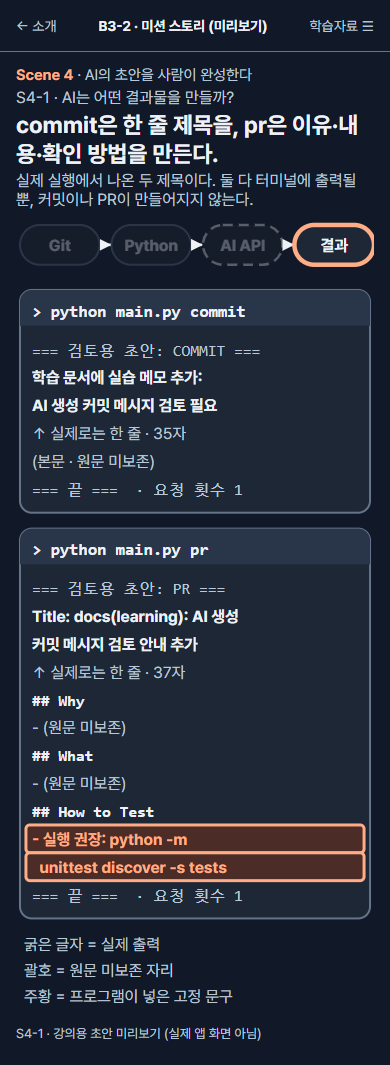
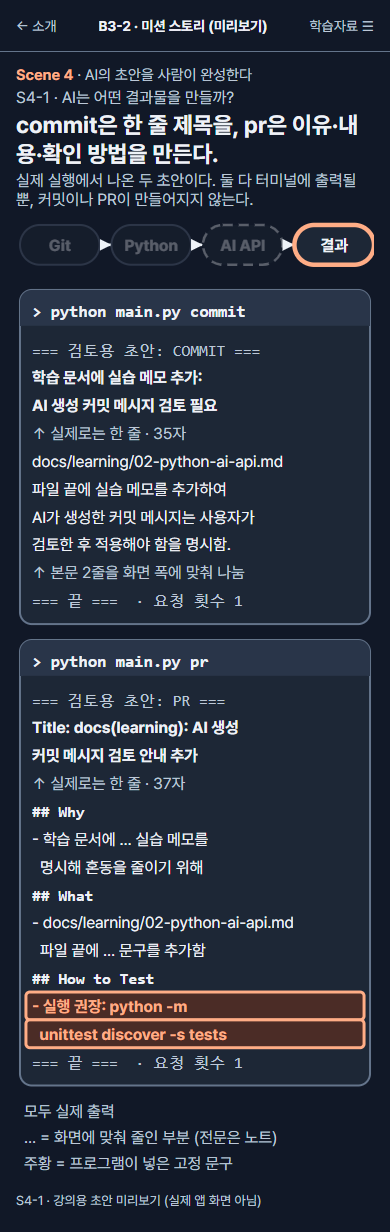
content(b32): replace S4-1 placeholders with real 2026-10-20 output
GPT 독립 검토 반영. S4-1의 "원문 미보존" 자리를 사용자가 2026-10-20
실제 코디세이 API로 실행한 commit·PR 출력 원문으로 교체했다.
[실제 실행 · 2026-10-20 · 사용자 ChatGPT 대화 공유]

- evidence/real-output-2026-10-20.txt: 출력 원문 보존
- F8 PC·모바일: 실제 출력 반영, 긴 PR 불릿은 원문 조각을 …로 연결
- storyboard: S4-1 대체텍스트·근거·강사 스크립트·접힘 설명, 전문 블록
- review.md: 원문 미보존·재실행 필요 기록 정정, 메모 위치 차이 기록
- preview.cjs: F8 글자를 원문과 조각 단위로 대조

4 Scene·8화면 유지. 이번 작업에서도 AI API는 호출하지 않았다.

Changed region(s): [[0.0308, 0.0, 0.9846, 0.9915], [0.8, 0.0, 0.9538, 0.031]]

diff --git a/content/mission-stories/main-m06/_tools/build_figures.py b/content/mission-stories/main-m06/_tools/build_figures.py
@@ -765,16 +765,21 @@ def f7(mobile):
 
 
 # ---------------------------------------------------------------- F8 commit / pr 결과
-F8_LABEL = ("같은 변경으로 실행한 두 명령의 출력(2026-10-20 사용자 실제 실행). 왼쪽 python main.py commit: '=== 검토용 초안: COMMIT ===' 다음에 "
-            "실제 제목 '학습 문서에 실습 메모 추가: AI 생성 커밋 메시지 검토 필요'(35자), 본문은 실습 메모 추가를 설명했으나 원문이 보존되지 않아 비워 둠, "
-            "끝 표시와 stderr의 'AI API 요청 횟수: 1'. 오른쪽 python main.py pr: 실제 제목 'Title: docs(learning): AI 생성 커밋 메시지 검토 안내 추가'(37자), "
-            "## Why와 ## What 불릿은 원문이 보존되지 않아 비워 둠, ## How to Test는 프로그램이 넣은 고정 문구 '- 실행 권장: python -m unittest discover -s tests'(강조), "
-            "끝 표시와 요청 횟수 1. 아래 범례: 굵은 글자 = 실제 출력, 괄호 = 원문 미보존 자리, 주황 = 프로그램이 넣은 고정 문구.")
+F8_LABEL = ("같은 변경으로 실행한 두 명령의 실제 출력(2026-10-20 사용자 실행, ChatGPT 대화 공유 원문). 왼쪽 python main.py commit: "
+            "'=== 검토용 초안: COMMIT ===' 다음에 제목 '학습 문서에 실습 메모 추가: AI 생성 커밋 메시지 검토 필요'(35자), 빈 줄, 본문 두 줄 "
+            "'docs/learning/02-python-ai-api.md 파일 끝에 실습 메모를 추가하여 / AI가 생성한 커밋 메시지는 사용자가 검토한 후 적용해야 함을 명시함.', "
+            "끝 표시와 stderr의 'AI API 요청 횟수: 1'. 오른쪽 python main.py pr: 'Title: docs(learning): AI 생성 커밋 메시지 검토 안내 추가'(37자), "
+            "## Why '- 학습 문서에 … 실습 메모를 명시해 혼동을 줄이기 위해', ## What '- docs/learning/02-python-ai-api.md 파일 끝에 … 추가함'(긴 줄은 …로 줄임), "
+            "## How to Test는 프로그램이 넣은 고정 문구 '- 실행 권장: python -m unittest discover -s tests'(강조), 끝 표시와 요청 횟수 1. "
+            "아래 범례: 굵은 글자 = 실제 출력의 제목, … = 화면에 맞춰 줄인 부분(전문은 발표자 노트), 주황 = 프로그램이 넣은 고정 문구.")
+# evidence/real-output-2026-10-20.txt 원문. 화면 폭을 넘는 PR 불릿만 원문 순서대로 잘라 '…'로 잇는다(preview.cjs가 원문과 대조)
 F8_COMMIT = [
     ("=== 검토용 초안: COMMIT ===", "muted mono"),
     ("학습 문서에 실습 메모 추가: AI 생성 커밋 메시지 검토 필요", "ink b"),
     ("", ""),
-    ("(본문: 실습 메모 추가를 설명 · 원문 미보존)", "muted"),
+    ("docs/learning/02-python-ai-api.md 파일 끝에 실습 메모를 추가하여", "ink"),
+    ("AI가 생성한 커밋 메시지는 사용자가 검토한 후 적용해야 함을 명시함.", "ink"),
+    ("", ""),
     ("=== 끝: 내용을 확인한 뒤 사용하세요 ===", "muted mono"),
     ("AI API 요청 횟수: 1   ← stderr", "muted"),
 ]
@@ -782,9 +787,9 @@ F8_PR = [
     ("=== 검토용 초안: PR ===", "muted mono"),
     ("Title: docs(learning): AI 생성 커밋 메시지 검토 안내 추가", "ink b"),
     ("## Why", "ink mono b"),
-    ("- (변경 목적 · 원문 미보존)", "muted"),
+    ("- 학습 문서에 … 실습 메모를 명시해 혼동을 줄이기 위해", "ink"),
     ("## What", "ink mono b"),
-    ("- (바뀐 파일과 문구 · 원문 미보존)", "muted"),
+    ("- docs/learning/02-python-ai-api.md 파일 끝에 … 추가함", "ink"),
     ("## How to Test", "ink mono b"),
     ("- 실행 권장: python -m unittest discover -s tests", "acc"),
     ("=== 끝: 내용을 확인한 뒤 사용하세요 ===", "muted mono"),
@@ -809,15 +814,18 @@ def f8(mobile):
                     s.text(x + 16, 104 + i * 32 - (2 if c == "acc" else 0), t, 19, c)
             s.rect(x, 424, w, 44, "box", 10)
             s.text(x + 16, 453, note, 19, "ink")
-        s.text(8, 506, "굵은 글자 = 실제 출력 · 괄호 = 원문이 보존되지 않아 비운 자리 · 주황 = 프로그램이 넣은 고정 문구", 19, "muted")
+        s.text(8, 506, "모두 실제 출력 · … = 화면에 맞춰 줄인 부분 (전문은 발표자 노트) · 주황 = 프로그램이 넣은 고정 문구", 19, "muted")
     else:
         s = Svg(360, 940, ("main",), F8_LABEL, title)
         com = [("=== 검토용 초안: COMMIT ===", "muted mono"), ("학습 문서에 실습 메모 추가:", "ink b"),
                ("AI 생성 커밋 메시지 검토 필요", "ink b"), ("↑ 실제로는 한 줄 · 35자", "muted"),
-               ("(본문 · 원문 미보존)", "muted"), ("=== 끝 ===  · 요청 횟수 1", "muted mono")]
+               ("docs/learning/02-python-ai-api.md", "ink"), ("파일 끝에 실습 메모를 추가하여", "ink"),
+               ("AI가 생성한 커밋 메시지는 사용자가", "ink"), ("검토한 후 적용해야 함을 명시함.", "ink"),
+               ("↑ 본문 2줄을 화면 폭에 맞춰 나눔", "muted"), ("=== 끝 ===  · 요청 횟수 1", "muted mono")]
         pr = [("=== 검토용 초안: PR ===", "muted mono"), ("Title: docs(learning): AI 생성", "ink b"),
               ("커밋 메시지 검토 안내 추가", "ink b"), ("↑ 실제로는 한 줄 · 37자", "muted"),
-              ("## Why", "ink mono b"), ("- (원문 미보존)", "muted"), ("## What", "ink mono b"), ("- (원문 미보존)", "muted"),
+              ("## Why", "ink mono b"), ("- 학습 문서에 … 실습 메모를", "ink"), ("  명시해 혼동을 줄이기 위해", "ink"),
+              ("## What", "ink mono b"), ("- docs/learning/02-python-ai-api.md", "ink"), ("  파일 끝에 … 문구를 추가함", "ink"),
               ("## How to Test", "ink mono b"), ("- 실행 권장: python -m", "acc"), ("  unittest discover -s tests", "acc"),
               ("=== 끝 ===  · 요청 횟수 1", "muted mono")]
         y = 8
@@ -831,7 +839,7 @@ def f8(mobile):
                     s.rect(10, y + 46 + i * 28, 340, 28, "box-acc", 4)
                 s.text(16, y + 66 + i * 28, t, 16, c)
             y += h + 16
-        s.lines(8, y + 16, ["굵은 글자 = 실제 출력", "괄호 = 원문 미보존 자리", "주황 = 프로그램이 넣은 고정 문구"], 16, 26, "muted")
+        s.lines(8, y + 16, ["모두 실제 출력", "… = 화면에 맞춰 줄인 부분 (전문은 노트)", "주황 = 프로그램이 넣은 고정 문구"], 16, 26, "muted")
         s.h = y + 86
     return s
 

diff --git a/content/mission-stories/main-m06/review.md b/content/mission-stories/main-m06/review.md
@@ -2,7 +2,7 @@
 
 > 대상: [storyboard-v0.1.md](storyboard-v0.1.md) · [assets/](assets/) · [assets/evidence/](assets/evidence/) · [preview/](preview/) · [_tools/](_tools/)
 > 작업 브랜치 `content/b3-2-ai-git-story` (기준 `origin/main` `08d1e1f`) · 근거 소스 [Codyssey_B3-2](https://github.com/hyun02063185-AX-beginner/Codyssey_B3-2) `be21c49`
-> 상태: **Claude 자체 QA 완료 · GPT 독립 검토 전 · Owner 승인 전 · 웹 통합 전 · 동료평가 전 초안**
+> 상태: **GPT 독립 검토 반영(S4-1 실제 출력) · Owner 승인 전 · 웹 통합 전 · 동료평가 전 초안**
 > 이 문서가 B3-2 Story의 QA·handover 기록이다. 별도 보고서를 만들지 않는다(학습 운영 정책 §7). 동료평가 피드백도 새 스토리가 아니라 이 초안의 개정으로 반영한다.
 
 ## 1. 다시 실행하는 법
@@ -24,7 +24,7 @@ node preview.cjs --check-only                    # 검사만
 | --- | --- | --- |
 | 강의 원고 | 인트로 + 4 Scene × 2 = 8화면. 화면마다 제목·학습 질문·핵심 메시지·화면 설명·시각자료·대체텍스트·근거·강사 스크립트·학습자 접힘 설명·이해 확인·연결. 발표자 노트(시연 ①~⑥), 강의 시간표, 부록 A(공식·구현·표현), 부록 B(화면별 개념 수) | 완료 |
 | 그림 | F0 위치 띠(`s1`~`s4`) · F1 전체 구조도(`all`·`s1`~`s4`·`return`) · F2 직접 작성 vs AI 초안 · F3 git status/diff · F4 argparse→subprocess→운영체제→Git · F5 stdout/stderr/returncode 분기 · F6 보낼 문맥과 안전 검사 · F7 API 요청·응답 · F8 commit/PR 출력 — 각 PC(폭 1200)·모바일(폭 360) SVG 18개 | 완료 |
-| 실행 근거 | `assets/evidence/` 5개: git 출력, AI에게 보내는 문맥 원문(806자), 요청 본문 구조(키 없음), subprocess 결과(0/128), 검증기 실행 결과(교육용 입력) | 완료 |
+| 실행 근거 | `assets/evidence/` 6개: git 출력, AI에게 보내는 문맥 원문(806자), 요청 본문 구조(키 없음), subprocess 결과(0/128), 검증기 실행 결과(교육용 입력), **실제 commit·PR 출력 원문**(`real-output-2026-10-20.txt`) | 완료 |
 | 미리보기 | `preview/` PC 1280×720 Dark: 인트로+8 · Light: S1-2·S3-2·S4-2 · 모바일 390×844: 인트로+8 | 완료 |
 | 도구 | `capture_demo.py`(근거), `build_figures.py`(그림), `preview.cjs`(검사·미리보기), `screens.json`(화면 문구 사본) | 완료 |
 | 개념지도 | B3-2 개념지도는 이번 범위가 아니다. 스토리 → 지도 연결은 **미구현** | 범위 밖 |
@@ -56,13 +56,15 @@ node preview.cjs --check-only                    # 검사만
 | 문맥 6칸 순서와 806자 | F6, F7 | `evidence/demo-context.txt`, `demo-request.json`의 `context_chars` | PASS |
 | returncode 0 / 128, stderr `fatal: not a git repository …` | F5 | `evidence/subprocess-results.txt` | PASS |
 | URL `https://copa.codyssey.kr/v1/chat/completions`, 모델 `gpt-5-mini` | F7 | `[실제 실행]` B3-2 README·QA | PASS(모델) |
-| commit 제목 35자, PR 제목 37자 | F2, F8 | `[실제 실행]` B3-2 `reports/QA.md`. 글자 수는 다시 셌다 | — (원고·그림 일치 육안 확인) |
+| commit·PR 출력 전체(제목 35자·37자, commit 본문 2줄, PR Why·What) | F2, F8 | `[실제 실행 · 2026-10-20 · 사용자 ChatGPT 대화 공유]` `evidence/real-output-2026-10-20.txt`. 제목은 B3-2 `reports/QA.md`와도 같다. 글자 수는 다시 셌다 | PASS(F8 PC·모바일의 출력 글자를 `…` 조각 단위로 원문과 대조, "미보존" 표시 0건) |
 | How to Test `- 실행 권장: python -m unittest discover -s tests` | F8 | `validators.py`, `evidence/validator-demo.txt` | PASS |
 | API 키 | 모든 그림·근거 | 표시하지 않음(`••••`). `preview.cjs`가 `sk-`·`ghp_`·`github_pat_`·`AKIA`·`Bearer <값>` 패턴 검사 | PASS(0건) |
 
-**재현의 범위.** 2026-10-20 실제 실행의 터미널 전문은 남아 있지 않다. 그때 AI가 설명한 변경(`docs/learning/02-python-ai-api.md`에 실습 메모 한 줄 추가, `be21c49`에 커밋됨)을 `7b2c6af` 위에 미커밋 변경으로 다시 만들고, B3-2의 `collect_changes()`·`prepare_context()`를 그대로 실행했다. 실제 실행 때 브랜치가 무엇이었는지, 그 변경을 `git add`했는지는 기록이 없다. 재현에서는 `main`·미스테이징으로 두었고 그림에 "재현"을 표시했다.
+**재현의 범위.** 2026-10-20 실제 실행에서 남은 것은 `commit`·`pr`의 출력(AI 초안)뿐이고, 그때의 `git status`·`git diff` 화면은 없다. 그때 AI가 설명한 변경(`docs/learning/02-python-ai-api.md`에 실습 메모 한 줄 추가, `be21c49`에 커밋됨)을 `7b2c6af` 위에 미커밋 변경으로 다시 만들고, B3-2의 `collect_changes()`·`prepare_context()`를 그대로 실행했다. 실제 실행 때 브랜치가 무엇이었는지, 그 변경을 `git add`했는지는 기록이 없다. 재현에서는 `main`·미스테이징으로 두었고 그림에 "재현"을 표시했다.
 
-**만들어 넣지 않은 것.** 실제 commit 본문과 PR의 Why·What 문장은 기록이 없어 그림에 괄호 자리("원문 미보존")로 두었다. 강의에서는 시연 ⑤로 새로 받아 보여 준다.
+**실제 출력의 출처.** S4-1의 commit·PR 출력은 2026-10-20 ChatGPT 대화에 사용자가 직접 올린 터미널 출력이다. GPT가 그 대화에서 확인했고 Owner가 2026-11-04 전달했다(`[실제 실행 · 2026-10-20 · 사용자 ChatGPT 대화 공유]`). 원문은 `evidence/real-output-2026-10-20.txt`에 고치지 않고 보존했다. 화면 F8은 PR의 Why·What만 원문 순서대로 잘라 `…`로 이었고, 전문은 스토리보드 S4-1 "실제 출력 전문"(발표자 노트·접힘)에 있다. **이 스토리 제작 과정에서 AI API는 한 번도 호출하지 않았다.**
+
+**원문과 커밋 기록의 차이(확인 대기).** 두 초안 모두 메모를 "파일 끝에" 추가했다고 쓴다. 커밋된 `be21c49`의 `docs/learning/02-python-ai-api.md`에서 메모는 45줄 중 29번째 줄(`## 실행 결과` 앞)에 있고, F3 재현도 이 위치를 따랐다. 실행 시각(`7b2c6af` 17:00 이후, `be21c49` 17:31 이전)의 메모 위치는 기록이 없다. 따라서 (가) AI가 위치를 잘못 설명했거나 (나) 실행 당시에는 파일 끝에 있었고 커밋 전에 옮겨졌을 수 있다. 원문은 그대로 두었고, 어느 쪽인지 정해지기 전에는 강의에서 언급하지 않도록 S4-1 강사 스크립트 7에 적었다.
 
 ## 4. 공식 요구사항과 실제 구현의 차이
 
@@ -103,8 +105,9 @@ node preview.cjs --check-only                    # 검사만
 
 | 항목 | 내용 |
 | --- | --- |
-| 실제 API 시연(⑤) | 이번 작업에서 AI API를 호출하지 않았다(키 없음·비용). 실제 응답 형식은 2026-10-20 사용자 실행 기록에 근거한다 |
-| commit 본문·PR Why/What 원문 | 기록이 없어 그림에 비워 두었다. 동료평가 전 Owner가 ⑤를 실행해 원문을 남기면 S4-1을 실제 문장으로 바꿀 수 있다(요청 2회) |
+| 실제 API 시연(⑤) | 이번 작업에서 AI API를 호출하지 않았다(키 없음·비용). S4-1은 2026-10-20 사용자 실제 실행의 출력 원문을 쓰므로 다시 실행할 필요는 없다. ⑤는 강의 중 선택 시연이다 |
+| 메모 위치 "파일 끝에" | 실제 출력과 커밋 기록(29/45번째 줄)이 다르다. 실행 당시 위치는 기록이 없다(§3.2) |
+| 출력 원문의 전달 경로 | 원문은 GPT가 확인한 ChatGPT 대화에서 Owner를 거쳐 받았다. Claude는 그 대화 자체를 열어 보지 않았다 |
 | 실제 실행의 브랜치·스테이징 상태 | 기록 없음. 재현은 `main`·미스테이징 |
 | 코디세이 API 뒤 구조 | 모델 실행 위치·내부 연결은 확인하지 않았다(원고도 단정하지 않음) |
 | 미션 원문 | Notion 원문 재확인 없음. 원천 추출 raw와 B3-2 기록에 근거 |
@@ -119,7 +122,8 @@ node preview.cjs --check-only                    # 검사만
 1. **용어사전 `commit-subcommand` 정의 불일치.** 원천 추출에서 "commit 명령 = commit subcommand, 커밋 제목 생성"은 B3-2 프로그램의 `commit` 입력을 가리키는데, 현재 용어 문서 `content/terms/commit-subcommand.md`는 `git commit` 하위 명령으로 정의한다. 이 원고는 연결하지 않았다(S2-1 연결 아래 메모). canonical 데이터라 수정하지 않았다 — 별도 콘텐츠 개정 여부를 Owner가 결정한다.
 2. **화면에 보이는 질문.** 지시서의 확정 제목 중 다섯 개가 질문형이라, 화면에는 확정 제목을 쓰고 "학습 질문"은 발표자 노트로 두었다(B1-1은 학습 질문을 화면에 표시). 화면 표시 방식을 검토해 주세요.
 3. **위치 띠(F0).** 각 Scene에서 전체 구조도의 해당 부분만 강조한다는 지시에 맞춰 만든 새 요소다. F1에도 같은 `s1`~`s4` 상태를 두었다. 띠를 화면마다 둘지, F1을 "위치 보기"로 펼칠지 결정이 필요하다.
-4. **실제 응답 원문 확보.** S4-1의 괄호 자리를 실제 문장으로 채우려면 Owner의 실제 실행 1회(요청 2회)가 필요하다. 하지 않으면 현재처럼 "원문 미보존"으로 강의한다.
+4. ~~실제 응답 원문 확보~~ → **해결(2026-11-04).** Owner가 전달한 2026-10-20 실제 출력으로 S4-1을 채웠다. 추가 실행은 필요 없다.
+5. **메모 위치 "파일 끝에".** 실행 당시 메모가 파일 끝에 있었는지 Owner가 기억하거나 기록으로 확인해 주세요. AI의 위치 설명이 틀린 것으로 확인되면, 동료평가 개정 때 S4-2 "AI 설명을 diff와 비교하기"의 실제 사례로 쓸 수 있다. 당시 끝에 있었다면 F3 재현의 위치(`@@ -26,6 +26,8 @@`)를 바꿔야 한다.
 
 ## 8. 웹 통합 인수인계 (Codex · Owner 승인 후)
 
@@ -129,3 +133,10 @@ node preview.cjs --check-only                    # 검사만
 - **연결**: 용어 ID는 모두 `data/curated/glossary-master-v0.1.yaml`에 있다. 학습가이드는 이 사이트에 B3-2 가이드가 없어 B3-2 저장소 `be21c49`의 `docs/learning/` 고정 링크다. 외부 링크는 새 창 이동으로만 쓰고 복귀 주소로 쓰지 않는다(UI 기준). 개념지도 연결은 미구현으로 표시한다.
 - **공개 route·mission 등록·`src/` 변경은 이번 단계에서 하지 않았다.** 등록과 경로는 웹 통합 작업에서 UI 기준 v1.2에 따라 정한다.
 - 미리보기 PNG는 검토용이며 웹 렌더러 데이터가 아니다.
+
+## 9. 개정 기록
+
+| 날짜 | 커밋 | 내용 |
+| --- | --- | --- |
+| 2026-11-04 | `75ffbab` | v0.1 초안 |
+| 2026-11-04 | 이 커밋 | GPT 독립 검토 반영: S4-1의 "원문 미보존" 자리를 2026-10-20 실제 출력으로 교체(F8 PC·모바일, 스토리보드 대체텍스트·근거·강사 스크립트·접힘 설명, 전문 블록 추가), 근거 `evidence/real-output-2026-10-20.txt` 추가, `preview.cjs`에 F8 원문 대조 추가, S4-1 화면 설명 "두 제목" → "두 초안". 4 Scene·8화면 구성, 다른 화면·그림 변경 없음. API 호출 없음 |

diff --git a/content/mission-stories/main-m06/storyboard-v0.1.md b/content/mission-stories/main-m06/storyboard-v0.1.md
@@ -19,7 +19,7 @@
 | **연결** | 용어사전 ID, B3-2 학습가이드 장. B3-2 개념지도는 아직 없어 지도 연결은 **미구현** |
 | `[공식]` | 미션 원천 추출 `data/raw/main/m06/` (Notion 원문 자체는 이번에 다시 열지 않음) |
 | `[구현]` | B3-2 소스 `be21c49` |
-| `[실제 실행]` | 사용자가 2026-10-20 Windows PowerShell에서 실제 코디세이 API로 `commit`·`pr`을 각 1회 실행한 결과(B3-2 `reports/QA.md`). 제목만 기록되어 있고 본문 전문은 없다 |
+| `[실제 실행]` | 사용자가 2026-10-20 Windows PowerShell에서 실제 코디세이 API로 `commit`·`pr`을 각 1회 실행한 결과. 설정·요청 횟수는 B3-2 `reports/QA.md`, 출력 전문은 `[실제 실행 · 2026-10-20 · 사용자 ChatGPT 대화 공유]` 원문(`assets/evidence/real-output-2026-10-20.txt`). 이 스토리 제작 중에는 API를 다시 호출하지 않았다 |
 | `[재현]` | 그 실행에서 AI가 설명한 변경을 연습 복제본에서 다시 만들고 B3-2 함수를 그대로 실행한 결과(`_tools/capture_demo.py`). AI API는 호출하지 않았다 |
 | `[보충]` | 교육용 단순화·예시. 실제 구조나 실행 기록과 1:1이 아니다 |
 
@@ -273,20 +273,51 @@
 | 제목 | AI는 어떤 결과물을 만들까? |
 | 학습 질문 | 같은 변경에서 commit과 pr은 무엇을 다르게 만들까? |
 | 핵심 메시지 | commit은 한 줄 제목을, pr은 이유·내용·확인 방법을 만든다. |
-| 화면 설명 | 실제 실행에서 나온 두 제목이다. 둘 다 터미널에 출력될 뿐, 커밋이나 PR이 만들어지지 않는다. |
+| 화면 설명 | 실제 실행에서 나온 두 초안이다. 둘 다 터미널에 출력될 뿐, 커밋이나 PR이 만들어지지 않는다. |
 | 핵심 시각자료 | F8 `assets/f8-drafts-desktop.svg` (모바일 `-mobile.svg`) · 위치 띠 `s4` |
-| 대체텍스트 | 같은 변경으로 실행한 두 명령의 출력(2026-10-20 사용자 실제 실행). 왼쪽 python main.py commit: '=== 검토용 초안: COMMIT ===' 다음에 실제 제목 '학습 문서에 실습 메모 추가: AI 생성 커밋 메시지 검토 필요'(35자), 본문은 실습 메모 추가를 설명했으나 원문이 보존되지 않아 비워 둠, 끝 표시와 stderr의 'AI API 요청 횟수: 1'. 오른쪽 python main.py pr: 실제 제목 'Title: docs(learning): AI 생성 커밋 메시지 검토 안내 추가'(37자), ## Why와 ## What 불릿은 원문이 보존되지 않아 비워 둠, ## How to Test는 프로그램이 넣은 고정 문구 '- 실행 권장: python -m unittest discover -s tests'(강조), 끝 표시와 요청 횟수 1. 아래 범례: 굵은 글자 = 실제 출력, 괄호 = 원문 미보존 자리, 주황 = 프로그램이 넣은 고정 문구. |
-| 근거 | `[실제 실행]` 두 제목과 글자 수, "본문이 실습 메모 추가를 정확히 설명", "How to Test에 실행 권장 명령"(B3-2 `reports/QA.md`). `[구현]` 출력 틀(`=== 검토용 초안 …`)·요청 횟수는 `main.py`, How to Test 고정 문구는 `validators.py` `validate_pr()`. 본문·Why·What 문장은 기록이 없어 **만들어 넣지 않았다** |
+| 대체텍스트 | 같은 변경으로 실행한 두 명령의 실제 출력(2026-10-20). 왼쪽 python main.py commit: '=== 검토용 초안: COMMIT ===' 다음에 제목 '학습 문서에 실습 메모 추가: AI 생성 커밋 메시지 검토 필요'(35자), 빈 줄, 본문 두 줄 'docs/learning/02-python-ai-api.md 파일 끝에 실습 메모를 추가하여 / AI가 생성한 커밋 메시지는 사용자가 검토한 후 적용해야 함을 명시함.', 끝 표시와 stderr의 'AI API 요청 횟수: 1'. 오른쪽 python main.py pr: 'Title: docs(learning): AI 생성 커밋 메시지 검토 안내 추가'(37자), ## Why '- 학습 문서에 … 실습 메모를 명시해 혼동을 줄이기 위해', ## What '- docs/learning/02-python-ai-api.md 파일 끝에 … 추가함'(긴 줄은 …로 줄임), ## How to Test는 프로그램이 넣은 고정 문구 '- 실행 권장: python -m unittest discover -s tests'(강조), 끝 표시와 요청 횟수 1. 아래 범례: 모두 실제 출력, … = 화면에 맞춰 줄인 부분(전문은 발표자 노트), 주황 = 프로그램이 넣은 고정 문구. |
+| 근거 | `[실제 실행 · 2026-10-20 · 사용자 ChatGPT 대화 공유]` 두 명령의 터미널 출력 원문 `evidence/real-output-2026-10-20.txt`(아래 전문). 그림의 출력 글자는 이 원문의 조각이며 `preview.cjs`가 대조한다. `[구현]` 출력 틀(`=== 검토용 초안 …`)·요청 횟수는 `main.py`, How to Test 고정 문구는 `validators.py` `validate_pr()` |
+
+**실제 출력 전문** (발표자 노트 · 학습자 접힘. 화면 F8은 PR의 Why·What을 `…`로 줄여 보여 준다)
+
+```text
+=== 검토용 초안: COMMIT ===
+학습 문서에 실습 메모 추가: AI 생성 커밋 메시지 검토 필요
+
+docs/learning/02-python-ai-api.md 파일 끝에 실습 메모를 추가하여
+AI가 생성한 커밋 메시지는 사용자가 검토한 후 적용해야 함을 명시함.
+
+=== 끝: 내용을 확인한 뒤 사용하세요 ===
+AI API 요청 횟수: 1
+```
+
+```text
+=== 검토용 초안: PR ===
+Title: docs(learning): AI 생성 커밋 메시지 검토 안내 추가
+
+## Why
+- 학습 문서에 AI가 생성한 커밋 메시지를 사용자가 검토해야 한다는 실습 메모를 명시해 혼동을 줄이기 위해
+
+## What
+- docs/learning/02-python-ai-api.md 파일 끝에 "실습 메모: AI가 생성한 커밋 메시지는 사용자가 검토한 후 적용한다." 문구를 추가함
+
+## How to Test
+- 실행 권장: python -m unittest discover -s tests
+
+=== 끝: 내용을 확인한 뒤 사용하세요 ===
+AI API 요청 횟수: 1
+```
 
 **강사 스크립트**
 1. "같은 변경으로 두 번 실행했습니다. 무엇이 다른가요?"
-2. 왼쪽 **commit 초안**: 한 줄 제목(72자 이하) + 필요하면 본문. 실제 제목은 35자다. "무엇을 했는지"가 한 줄에 담긴다.
-3. 오른쪽 **PR 초안**: `Title`(80자 이하) + `Why`(왜) · `What`(무엇을) · `How to Test`(어떻게 확인할지). 리뷰어가 읽을 설명이다.
-4. **괄호 자리를 숨기지 않는다.** "실제 실행에서는 본문과 Why·What도 나왔지만 원문을 저장해 두지 않았습니다. 그래서 그 자리를 비워 뒀어요. 지금 직접 실행해 보겠습니다." → 발표자 노트 ⑤ 실시간 시연(키가 있을 때). 결과는 매번 조금씩 다를 수 있다.
+2. 왼쪽 **commit 초안**: 한 줄 제목(72자 이하, 실제 35자) + 빈 줄 + 본문. 제목은 "무엇을 했는지", 본문은 어느 파일에 무엇을 더했는지를 풀어 쓴다.
+3. 오른쪽 **PR 초안**: `Title`(80자 이하, 실제 37자) + `Why`(왜) · `What`(무엇을) · `How to Test`(어떻게 확인할지). 리뷰어가 읽을 설명이다. Why·What 전문은 화면에서 줄였으니 위 "실제 출력 전문"을 읽어 준다.
+4. **이 출력은 실제로 받은 것이다.** 2026-10-20 실제 코디세이 API 실행 결과를 그대로 옮겼다. 시간이 있고 키가 있으면 발표자 노트 ⑤로 다시 실행해 비교한다. 결과 문장은 매번 조금씩 다를 수 있다.
 5. **주황 줄을 짚는다.** How to Test는 AI가 쓴 문장이 아니라 **프로그램이 바꿔 넣은 고정 문구**다. AI는 diff만 보고 "테스트를 통과했다"고 지어낼 수 있기 때문이다(S4-2에서 다시).
 6. **반드시 말할 것**: 두 명령 모두 **터미널에 출력만** 한다. 커밋도, PR 등록도 하지 않는다. 시연에서 `git log -1`과 `git status`로 그대로인 것을 보여 준다.
+7. **(말하지 않음 · 확인 대기)** 두 초안 모두 메모를 "파일 끝에" 추가했다고 쓴다. 커밋된 `be21c49`에서 이 메모는 45줄 중 29번째 줄(`## 실행 결과` 앞)에 있다. 실행 당시 위치는 기록이 없어, AI의 위치 설명이 틀렸는지 당시에는 끝에 있었는지 아직 모른다. Owner 확인 전에는 강의에서 "AI가 틀렸다"고 말하지 않는다([review.md](review.md) §7).
 
-**학습자 접힘 설명** `python main.py commit`은 커밋 메시지 초안(72자 이하 제목 한 줄과 선택 본문)을, `python main.py pr`은 PR 초안(80자 이하 Title과 Why·What·How to Test 불릿)을 만듭니다. 실제 실행에서는 "학습 문서에 실습 메모 추가: AI 생성 커밋 메시지 검토 필요"와 "docs(learning): AI 생성 커밋 메시지 검토 안내 추가"가 나왔습니다. PR의 How to Test는 AI가 쓴 문장 대신 프로그램이 정한 실행 권장 문구로 바뀝니다. 두 명령 모두 결과를 터미널에 출력할 뿐 커밋이나 PR을 만들지 않습니다.
+**학습자 접힘 설명** `python main.py commit`은 커밋 메시지 초안(72자 이하 제목 한 줄과 선택 본문)을, `python main.py pr`은 PR 초안(80자 이하 Title과 Why·What·How to Test 불릿)을 만듭니다. 실제 실행에서 commit 초안은 제목 "학습 문서에 실습 메모 추가: AI 생성 커밋 메시지 검토 필요"와 어느 파일에 어떤 메모를 더했는지 설명하는 본문 두 줄을, PR 초안은 메모를 더한 이유(Why)와 바뀐 파일·문구(What)를 썼습니다. PR의 How to Test는 AI가 쓴 문장 대신 프로그램이 정한 실행 권장 문구로 바뀝니다. 두 명령 모두 결과를 터미널에 출력할 뿐 커밋이나 PR을 만들지 않습니다. 전체 출력은 위 "실제 출력 전문"에 있습니다.
 
 **이해 확인** "PR 초안의 How to Test는 누가 썼을까요?" → *AI가 아니라 B3-2 검증기가 고정 문구로 바꿨습니다. 실제로 실행한 테스트는 사람이 PR에 직접 적어야 합니다.*
 
